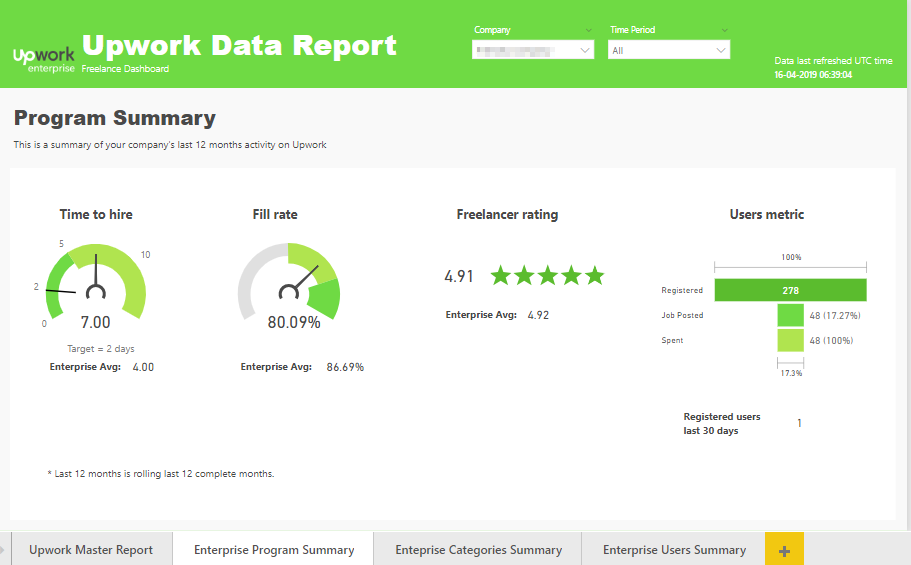
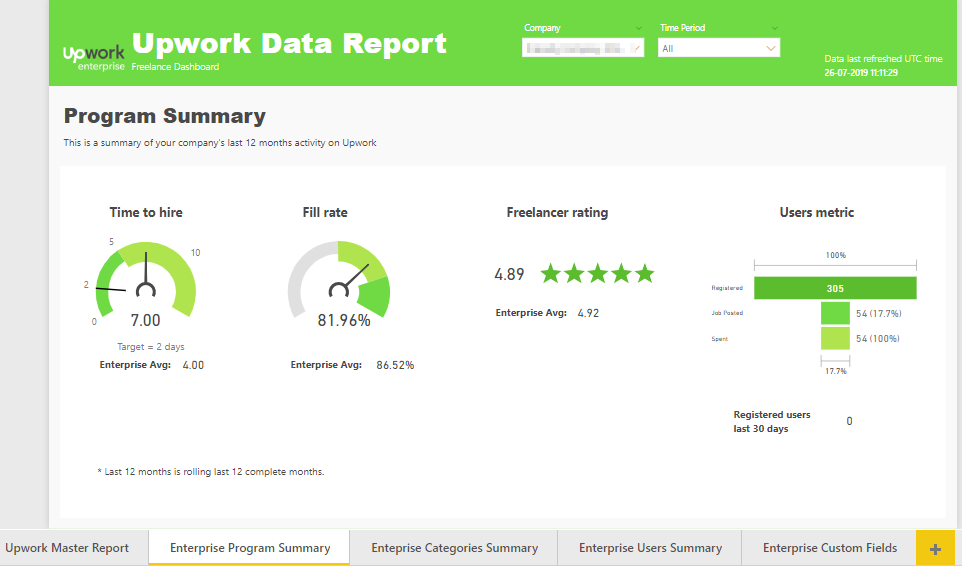
added support for Custom Fields

diff --git a/README.md b/README.md
@@ -4,7 +4,12 @@ Introduction
 The purpose of this **Power BI Custom Data Connector** is to connect to Upwork API and
 pull data related to freelance projects. This custom data connector comes pre-packaged with a **Power BI Report** file to analyze your data quickly.
 
-The connector pulls data using OAuth 2.0 authentication mechanism. Make sure you register an OAuth 2.0 client on Upwork before accessing data through this connector.
+The connector connects to Upwork APIs using OAuth 2.0 protocol. Make sure you register an OAuth 2.0 client on Upwork before accessing data through this connector.
+
+**Note 1: Please check folder "build\dist_v1" in this repo for accessing the connector with OAuth 1.0, if you wish to. This build doesn't have any new changes**
+
+**Note 2: Any enhancements/additions moving forward will be released with OAuth 2.0 support only.**
+
 
 The connector pulls following data from Upwork API (Note: The data pulled from the connector is limited)
 
@@ -19,6 +24,7 @@ The connector pulls following data from Upwork API (Note: The data pulled from t
 5.  Billing (pulled at a monthly level from Jan 2018)
 
 6.  Enterprise Reporting Insights (newly added!)
+7.  Enterprise Custom Fields (newly added!)
 
 
 Follow steps below to setup and use the Upwork connector.
@@ -50,6 +56,7 @@ data. Please find detailed steps:
     ![](docs/img/permissions.png)
 
 8.  For enterprise reporting to work you need to select an additional permission:
+            
             Execute GQL Query under /graphql/
 
 9.  Submit the application for approval
@@ -144,7 +151,10 @@ Following enterprise views have been added in this connector.
 
 3.  **Users metrics and summary** - Metrics and summary for your users/hiring managers. Metrics include total users, active users, and drilldown at a user level. The drilldown metrics include spend, fill rate, hiring manager name, jobs posted, days since registration and others. 
 
-These new views are available in the connector. Refer to the screenshot below. You can pull data for time periods: MTD, QTD, YTD, or LAST 12 M (last complete 12 months).
+4. **Custom Fields** - Get custom fields and values for your contracts.
+
+
+These new views are available in the connector. Refer to the screenshot below. You can pull data for following time periods: MTD, QTD, YTD, or LAST 12 M (last complete 12 months).
 
 ![](docs/img/upworkentviews.png)
 
